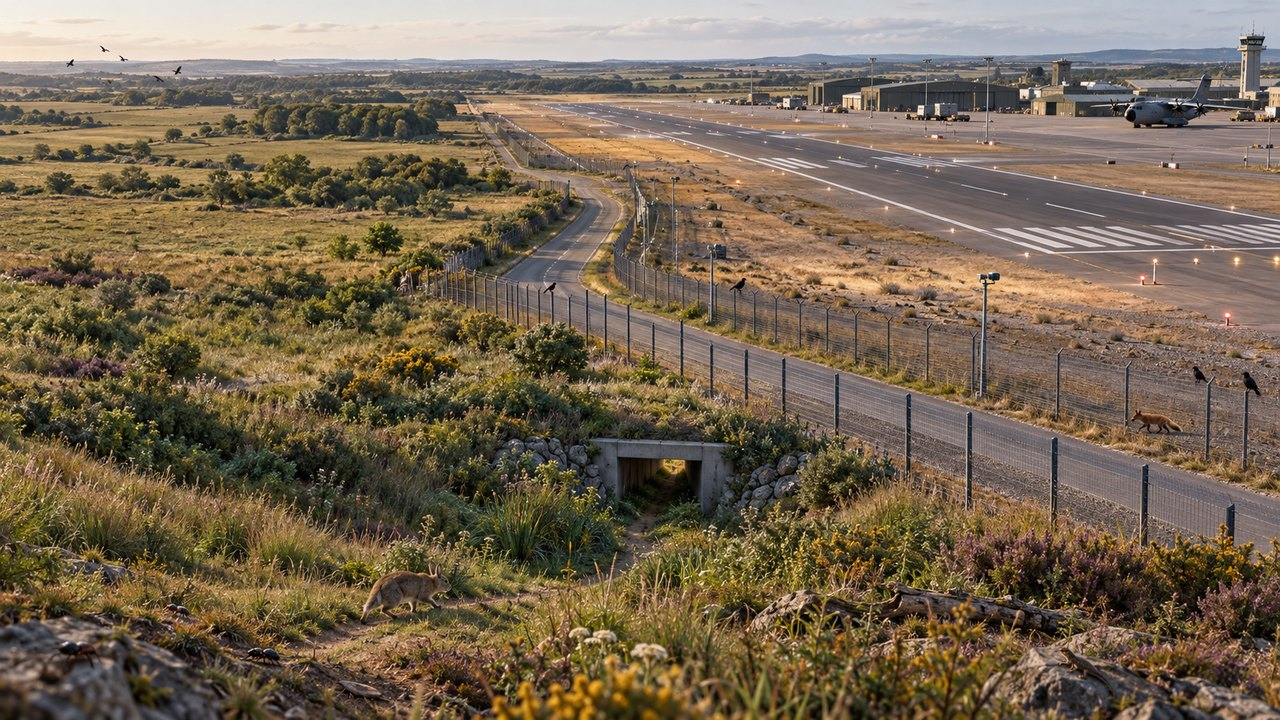
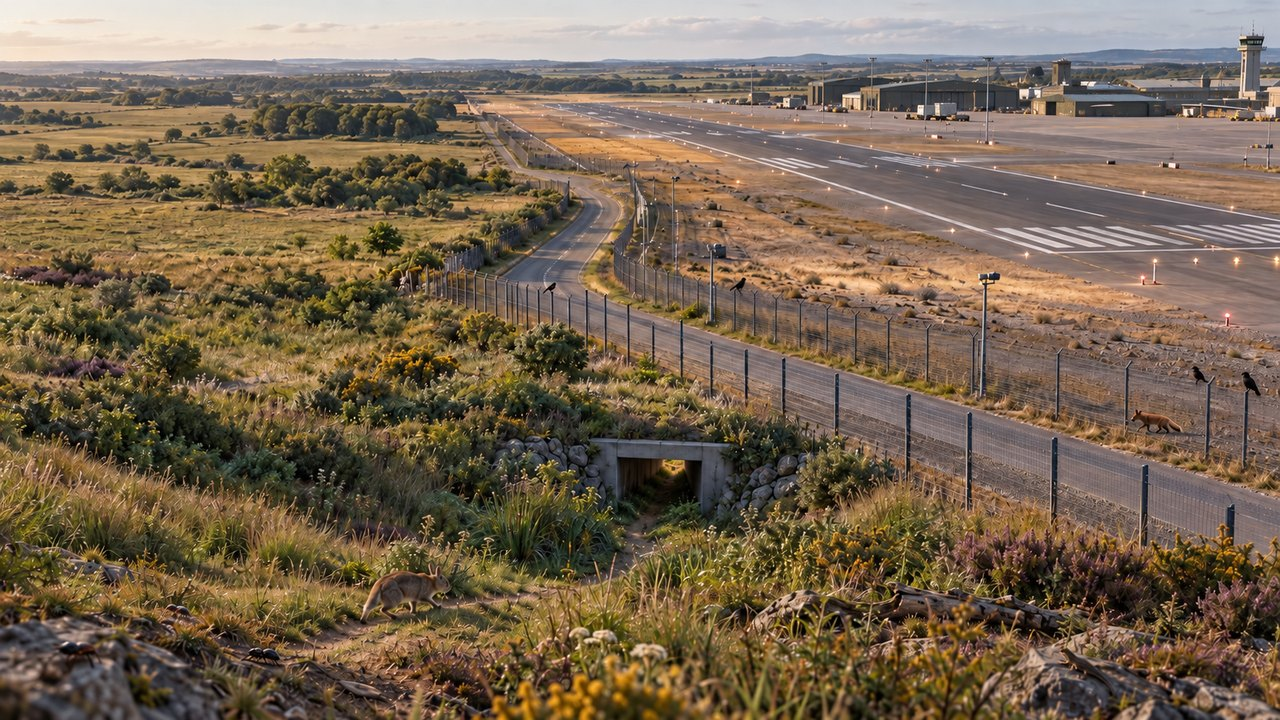
Enforce aircraft and vegetation separation

diff --git a/index.html b/index.html
@@ -5,6 +5,7 @@
   <meta name="viewport" content="width=device-width,initial-scale=1">
   <meta name="description" content="Curso sobre sostenibilidad y biodiversidad aplicadas al ciclo de vida, las operaciones y la toma de decisiones en el entorno aeronáutico.">
   <title>Fundamentos de aviación sostenible</title>
+  <!-- Regla visual: las imágenes con vegetación no contienen aeronaves; las imágenes con aeronaves no contienen vegetación. Solo A400M o Eurofighter. -->
   <style>
     :root{
       --navy:#071a33;--navy2:#0c2b52;--ink:#17243a;--muted:#52627a;--line:#dfe7ef;
@@ -86,8 +87,7 @@
               <div class="metrics"><div class="metric"><strong>8</strong><span>Módulos</span></div><div class="metric"><strong>3–5 h</strong><span>Ritmo flexible</span></div><div class="metric"><strong>10</strong><span>Decisiones</span></div></div>
             </div>
             <div class="heroMedia">
-              <img src="https://upload.wikimedia.org/wikipedia/commons/f/f3/Royal_Air_Force_Airbus_A400M_ZM400_in_flight_over_Bristol_%2845158515%29.jpg" alt="A400M Atlas de la Royal Air Force en vuelo sobre Bristol">
-              <div class="photoCaption">A400M Atlas · Cpl Paul Oldfield / UK MoD, Open Government Licence. <a href="https://commons.wikimedia.org/wiki/File:Royal_Air_Force_Airbus_A400M_ZM400_in_flight_over_Bristol_(45158515).jpg" target="_blank" rel="noopener">Ficha y licencia</a></div>
+              <img src="assets/concept-lifecycle.jpg" alt="Equipo de ingeniería revisa materiales y etapas del ciclo de vida de un Eurofighter dentro de un entorno industrial sin vegetación">
             </div>
           </div>
         </div>
@@ -127,15 +127,6 @@
             <div class="term"><dt>Integridad ecológica</dt><dd>Capacidad de un ecosistema para mantener composición, estructura, funciones y procesos a lo largo del tiempo.</dd></div>
           </dl>
         </section>
-        <section class="section">
-          <div class="sectionHead"><div><div class="kicker">Créditos fotográficos</div><h2>Aeronaves reales, procedencia verificable</h2></div><p>Todas las fotografías muestran exclusivamente A400M o Eurofighter militares y enlazan a su ficha de origen y condiciones de reutilización.</p></div>
-          <div class="sourceGrid">
-            <div class="source"><strong>A400M en vuelo · Cpl Paul Oldfield / UK MoD</strong><a href="https://commons.wikimedia.org/wiki/File:Royal_Air_Force_Airbus_A400M_ZM400_in_flight_over_Bristol_(45158515).jpg" target="_blank" rel="noopener">Wikimedia Commons · Open Government Licence</a></div>
-            <div class="source"><strong>A400M en playa · Andrew Linnett / UK MoD</strong><a href="https://commons.wikimedia.org/wiki/File:A400M_Beach_Landings_MOD_45162698_(cropped).jpg" target="_blank" rel="noopener">Wikimedia Commons · ficha y licencia</a></div>
-            <div class="source"><strong>Eurofighter en vuelo · Tech. Sgt. Emerson Nuñez / U.S. Air Force</strong><a href="https://commons.wikimedia.org/wiki/File:Three_German_Luftwaffe_Eurofighter_Typhoon_of_TaktLwG_71_in_flight_over_Germany_on_18_March_2021_(210318-F-TF218-1018).JPG" target="_blank" rel="noopener">Wikimedia Commons · dominio público en EE. UU.</a></div>
-            <div class="source"><strong>Eurofighter en preflight · Airman 1st Class Dwane R. Young / U.S. Air Force</strong><a href="https://commons.wikimedia.org/wiki/File:German_Luftwaffe_Eurofighter_Typhoon_of_the_31st_Wing_at_Nellis_AFB,_Nevada_(USA),_9_March_2020_(200309-F-NX702-019).JPG" target="_blank" rel="noopener">Wikimedia Commons · dominio público en EE. UU.</a></div>
-          </div>
-        </section>
       </section>
 
       <section id="m1" class="view">
@@ -146,7 +137,7 @@
             <p>La sostenibilidad no es una colección de acciones ambientales. Es la capacidad de mantener valor y cumplir una misión sin deteriorar las condiciones sociales, económicas y ecológicas de las que depende esa actividad.</p>
             <div class="moduleMeta"><span class="chip">Dependencias</span><span class="chip">Impactos</span><span class="chip">Doble materialidad</span></div>
           </div>
-          <div class="moduleImage"><img src="https://upload.wikimedia.org/wikipedia/commons/thumb/e/e8/Three_German_Luftwaffe_Eurofighter_Typhoon_of_TaktLwG_71_in_flight_over_Germany_on_18_March_2021_%28210318-F-TF218-1018%29.JPG/1280px-Three_German_Luftwaffe_Eurofighter_Typhoon_of_TaktLwG_71_in_flight_over_Germany_on_18_March_2021_%28210318-F-TF218-1018%29.JPG" alt="Tres Eurofighter Typhoon de la Luftwaffe en vuelo sobre Alemania"></div>
+          <div class="moduleImage"><img src="assets/concept-decision-system.jpg" alt="Equipo multidisciplinar revisa una decisión de sistemas junto a un A400M dentro de un hangar sin vegetación"></div>
         </div>
         <div class="moduleNav"><button class="btn light" data-home>← Menú del curso</button><span class="chip">01 / 08</span></div>
 
@@ -171,7 +162,7 @@
         <section class="section">
           <div class="sectionHead"><div><div class="kicker">Teoría 1.2</div><h2>De la interacción ecológica al riesgo empresarial</h2></div></div>
           <div class="theoryGrid">
-            <figure class="theoryFigure"><img src="assets/concept-dependencies.jpg" alt="Equipo técnico relaciona agua, suelo, hábitats, operaciones y decisiones de mantenimiento en una base con un A400M" loading="lazy" decoding="async"><figcaption><strong>Lectura del sistema</strong><span>La operación depende de recursos y funciones naturales y, a la vez, puede generar presiones. El análisis conecta esas relaciones con riesgos, oportunidades y decisiones concretas.</span></figcaption></figure>
+            <figure class="theoryFigure"><img src="assets/concept-dependencies.jpg" alt="Equipo técnico relaciona agua, suelo, hábitats, operaciones y decisiones de mantenimiento en una instalación militar sin aeronaves" loading="lazy" decoding="async"><figcaption><strong>Lectura del sistema</strong><span>La operación depende de recursos y funciones naturales y, a la vez, puede generar presiones. El análisis conecta esas relaciones con riesgos, oportunidades y decisiones concretas.</span></figcaption></figure>
             <article class="theoryCard accent"><h3>Dependencias</h3><p>Una dependencia existe cuando la organización necesita una contribución de la naturaleza. Puede ser física —agua con determinada calidad, estabilidad del terreno o materias primas— o reguladora —control de inundaciones, moderación térmica, regeneración del suelo—. Algunas dependencias son locales; otras están ocultas varios niveles aguas arriba en la cadena de suministro.</p><p>La dependencia no implica automáticamente una mala práctica. Señala una condición que debe entenderse porque su deterioro puede afectar coste, continuidad, calidad o disponibilidad.</p></article>
             <article class="theoryCard accent"><h3>Impactos</h3><p>Un impacto es un cambio en la naturaleza vinculado a una actividad. Puede producirse en operaciones directas o en la cadena de valor: transformación del suelo, fragmentación, extracción, vertidos, ruido, luz nocturna, introducción de especies o presión sobre recursos.</p><p>El análisis serio describe el mecanismo, la localización, la intensidad, la duración, la reversibilidad y el receptor afectado. “Tiene impacto” es demasiado impreciso para orientar una decisión.</p></article>
             <article class="theoryCard"><h3>Riesgos y oportunidades</h3><p>Los impactos y dependencias pueden traducirse en riesgos físicos, regulatorios, de transición, reputacionales u operativos. Una inundación que interrumpe un acceso es riesgo físico; un mineral sin trazabilidad que deja de ser aceptable es riesgo de cadena de suministro; una afirmación ambiental sin evidencia crea riesgo legal y reputacional.</p><p>También aparecen oportunidades: diseño reparable, contratos con mejor trazabilidad, mantenimiento que prolonga vida útil, restauración que reduce una presión local o sistemas de datos que anticipan conflictos.</p></article>
@@ -215,7 +206,7 @@
       <section id="m2" class="view">
         <div class="moduleHero">
           <div class="moduleIntro"><div class="kicker">Módulo 2 · 25–35 minutos</div><h1>Cómo funcionan los sistemas naturales</h1><p>Pasamos de “contar animales y plantas” a comprender composición, estructura, funciones, conectividad y cambio ecológico.</p><div class="moduleMeta"><span class="chip">Genes</span><span class="chip">Especies</span><span class="chip">Ecosistemas</span><span class="chip">Integridad</span></div></div>
-          <div class="moduleImage"><img src="https://upload.wikimedia.org/wikipedia/commons/thumb/e/e8/A400M_Beach_Landings_MOD_45162698_%28cropped%29.jpg/1280px-A400M_Beach_Landings_MOD_45162698_%28cropped%29.jpg" alt="A400M Atlas de la Royal Air Force durante pruebas de aterrizaje en playa"></div>
+          <div class="moduleImage"><img src="assets/concept-connectivity.jpg" alt="Paisaje fragmentado por pista, viales, vallas e iluminación, sin ninguna aeronave"></div>
         </div>
         <div class="moduleNav"><button class="btn light" data-home>← Menú del curso</button><span class="chip">02 / 08</span></div>
         <div class="learning"><section class="section"><div class="kicker">Objetivos</div><h2>Al finalizar podrás</h2><div class="objectiveList"><div class="objective"><b>01</b><span>Explicar los tres niveles de biodiversidad y por qué se necesitan mutuamente.</span></div><div class="objective"><b>02</b><span>Distinguir riqueza de especies, abundancia, composición e integridad ecológica.</span></div><div class="objective"><b>03</b><span>Analizar fragmentación, conectividad y resiliencia en un paisaje industrial.</span></div><div class="objective"><b>04</b><span>Elegir indicadores adecuados para una pregunta de gestión concreta.</span></div></div></section><section class="section"><div class="kicker">Idea de vuelo</div><h2>Una lista no describe un sistema</h2><p>Dos zonas pueden albergar veinte especies y, sin embargo, tener un valor ecológico muy distinto. Importa cuáles son, cuántos individuos mantienen, si pueden reproducirse, si el hábitat está conectado y si los procesos que sostienen la comunidad siguen funcionando.</p><div class="conceptBand"><strong>Regla del módulo</strong><p>La biodiversidad se interpreta en contexto espacial y temporal; una fotografía aislada no demuestra tendencia.</p></div></section></div>
@@ -235,7 +226,7 @@
         </div></section>
 
         <section class="section"><div class="sectionHead"><div><div class="kicker">Teoría 2.3</div><h2>Conectividad, fragmentación y efecto borde</h2></div></div><div class="theoryGrid">
-          <figure class="theoryFigure"><img src="assets/concept-connectivity.jpg" alt="Hábitat continuo fragmentado por pista, carretera, valla e iluminación, con un paso funcional alejado de la zona crítica de una base A400M" loading="lazy" decoding="async"><figcaption><strong>Qué muestra la imagen</strong><span>La infraestructura crea parches y bordes más expuestos. Un elemento que parece conectar el paisaje solo ofrece conectividad funcional si la especie objetivo puede utilizarlo; junto a la pista, la zonificación evita crear atractores de fauna.</span></figcaption></figure>
+          <figure class="theoryFigure"><img src="assets/concept-connectivity.jpg" alt="Hábitat continuo fragmentado por pista, carretera, valla e iluminación, con un paso funcional alejado de la zona crítica y sin aeronaves" loading="lazy" decoding="async"><figcaption><strong>Qué muestra la imagen</strong><span>La infraestructura crea parches y bordes más expuestos. Un elemento que parece conectar el paisaje solo ofrece conectividad funcional si la especie objetivo puede utilizarlo; junto a la pista, la zonificación evita crear atractores de fauna.</span></figcaption></figure>
           <article class="theoryCard full"><p><strong>Fragmentar</strong> no es solo reducir superficie. Es dividir un hábitat continuo en parches pequeños y aislados mediante carreteras, vallas, iluminación, edificios o cambios de uso. El aislamiento limita movimiento, intercambio genético y recolonización. Además, aumenta el <strong>efecto borde</strong>: más exposición a luz, ruido, temperatura, depredación o especies oportunistas.</p><p>La <strong>conectividad estructural</strong> describe si los elementos del paisaje parecen conectados; la <strong>conectividad funcional</strong> pregunta si una especie realmente puede usarlos. Una franja vegetal puede ser corredor para insectos y barrera para otra fauna. Por eso los corredores no se diseñan de forma genérica: se parte de especies o procesos objetivo.</p><p>En instalaciones aeronáuticas aparece una tensión legítima entre conectividad y gestión del riesgo de fauna. Atraer determinadas especies cerca de una pista puede aumentar el riesgo de impacto con aeronaves. La respuesta no es “más biodiversidad en cualquier lugar”, sino zonificar: conservar y conectar donde sea compatible, evitar atractores en zonas críticas y coordinar ecología con seguridad operacional.</p></article>
           <article class="theoryCard"><h3>Resistencia</h3><p>Capacidad de soportar una perturbación sin cambiar sustancialmente. Depende de la intensidad, duración y frecuencia del evento y de la condición previa del sistema.</p></article><article class="theoryCard"><h3>Recuperación</h3><p>Capacidad de volver a una condición funcional después de una perturbación. Un sistema puede resistir poco pero recuperarse bien; por eso ambos conceptos forman parte de la resiliencia.</p></article>
         </div></section>
@@ -260,7 +251,7 @@
       </section>
 
       <section id="m3" class="view">
-        <div class="moduleHero"><div class="moduleIntro"><div class="kicker">Módulo 3 · 25–35 minutos</div><h1>Ciclo de vida aeronáutico y naturaleza</h1><p>Un cambio de diseño puede reducir una presión y aumentar otra. El enfoque de ciclo de vida ayuda a detectar desplazamientos entre lugares, proveedores y etapas antes de decidir.</p><div class="moduleMeta"><span class="chip">LCA</span><span class="chip">Ecodiseño</span><span class="chip">Retrofit</span><span class="chip">Fin de vida</span></div></div><div class="moduleImage"><img src="https://upload.wikimedia.org/wikipedia/commons/f/f3/Royal_Air_Force_Airbus_A400M_ZM400_in_flight_over_Bristol_%2845158515%29.jpg" alt="A400M Atlas de la Royal Air Force en vuelo sobre Bristol"></div></div>
+        <div class="moduleHero"><div class="moduleIntro"><div class="kicker">Módulo 3 · 25–35 minutos</div><h1>Ciclo de vida aeronáutico y naturaleza</h1><p>Un cambio de diseño puede reducir una presión y aumentar otra. El enfoque de ciclo de vida ayuda a detectar desplazamientos entre lugares, proveedores y etapas antes de decidir.</p><div class="moduleMeta"><span class="chip">LCA</span><span class="chip">Ecodiseño</span><span class="chip">Retrofit</span><span class="chip">Fin de vida</span></div></div><div class="moduleImage"><img src="assets/concept-lifecycle.jpg" alt="Equipo de ingeniería compara materiales y etapas del ciclo de vida de un Eurofighter en un entorno industrial sin vegetación"></div></div>
         <div class="moduleNav"><button class="btn light" data-home>← Menú del curso</button><span class="chip">03 / 08</span></div>
         <div class="learning"><section class="section"><div class="kicker">Objetivos</div><h2>Al finalizar podrás</h2><div class="objectiveList"><div class="objective"><b>01</b><span>Definir función, unidad funcional y límites antes de comparar soluciones.</span></div><div class="objective"><b>02</b><span>Reconocer vías de impacto sobre biodiversidad en cada etapa del ciclo de vida.</span></div><div class="objective"><b>03</b><span>Detectar traslado de cargas entre extracción, fabricación, uso y fin de vida.</span></div><div class="objective"><b>04</b><span>Incorporar reparabilidad, modularidad y trazabilidad a una decisión de retrofit.</span></div></div></section><section class="section"><div class="kicker">Idea de vuelo</div><h2>Comparar requiere una función común</h2><p>Una pieza más ligera no es automáticamente mejor; una pieza reciclable tampoco. Primero se define qué función debe cumplir, durante cuánto tiempo, en qué condiciones y con qué requisitos de seguridad. Después se comparan alternativas equivalentes.</p><div class="conceptBand"><strong>Regla del módulo</strong><p>No optimices una etapa sacrificando otra sin conocer la magnitud y el motivo del intercambio.</p></div></section></div>
 
@@ -308,7 +299,7 @@
       </section>
 
       <section id="m4" class="view">
-        <div class="moduleHero"><div class="moduleIntro"><div class="kicker">Módulo 4 · 20–30 minutos</div><h1>Operaciones, territorio y fauna</h1><p>La gestión local debe proteger simultáneamente la seguridad operacional, el cumplimiento, la continuidad de la misión y la condición ecológica del entorno.</p><div class="moduleMeta"><span class="chip">Base industrial</span><span class="chip">Fauna</span><span class="chip">Riesgo</span><span class="chip">Controles</span></div></div><div class="moduleImage"><img src="https://upload.wikimedia.org/wikipedia/commons/thumb/0/07/German_Luftwaffe_Eurofighter_Typhoon_of_the_31st_Wing_at_Nellis_AFB%2C_Nevada_%28USA%29%2C_9_March_2020_%28200309-F-NX702-019%29.JPG/1280px-German_Luftwaffe_Eurofighter_Typhoon_of_the_31st_Wing_at_Nellis_AFB%2C_Nevada_%28USA%29%2C_9_March_2020_%28200309-F-NX702-019%29.JPG" alt="Equipo de mantenimiento de la Luftwaffe realizando comprobaciones previas en un Eurofighter Typhoon"></div></div>
+        <div class="moduleHero"><div class="moduleIntro"><div class="kicker">Módulo 4 · 20–30 minutos</div><h1>Operaciones, territorio y fauna</h1><p>La gestión local debe proteger simultáneamente la seguridad operacional, el cumplimiento, la continuidad de la misión y la condición ecológica del entorno.</p><div class="moduleMeta"><span class="chip">Base industrial</span><span class="chip">Fauna</span><span class="chip">Riesgo</span><span class="chip">Controles</span></div></div><div class="moduleImage"><img src="assets/concept-wildlife-zoning.jpg" alt="Equipo de control de fauna observa una pista y zonas de hábitat compatibles sin ninguna aeronave"></div></div>
         <div class="moduleNav"><button class="btn light" data-home>← Menú del curso</button><span class="chip">04 / 08</span></div>
         <div class="learning"><section class="section"><div class="kicker">Objetivos</div><h2>Al finalizar podrás</h2><div class="objectiveList"><div class="objective"><b>01</b><span>Leer una base como parte de un territorio y no como una parcela aislada.</span></div><div class="objective"><b>02</b><span>Aplicar el modelo fuente → vía → receptor a una presión ecológica.</span></div><div class="objective"><b>03</b><span>Conciliar gestión de fauna y seguridad aérea mediante zonificación.</span></div><div class="objective"><b>04</b><span>Diseñar controles, criterios de parada y seguimiento adaptativo.</span></div></div></section><section class="section"><div class="kicker">Idea de vuelo</div><h2>Compatibilidad, no decoración</h2><p>Una base puede contener zonas con funciones ecológicas, corredores y receptores sensibles. Pero la misma actuación que mejora hábitat lejos de la pista puede ser un atractor inadecuado en una zona crítica. La calidad está en colocar cada medida donde cumple su función sin crear un nuevo riesgo.</p><div class="conceptBand"><strong>Regla del módulo</strong><p>Gestiona la presión en su origen y diseña el espacio según receptores y funciones.</p></div></section></div>
 
@@ -328,7 +319,7 @@
           <article class="theoryCard"><h3>Movimiento y especies invasoras</h3><p>Vehículos, equipos, tierras y embalajes pueden transportar semillas, invertebrados o patógenos. La inspección, limpieza y trazabilidad de materiales de obra cierran vías de entrada.</p></article>
         </div></section>
 
-        <section class="section"><div class="sectionHead"><div><div class="kicker">Teoría 4.4</div><h2>Fauna y seguridad aérea: una gestión integrada</h2></div></div><div class="theoryGrid"><figure class="theoryFigure"><img src="assets/concept-wildlife-zoning.jpg" alt="Equipo de control de fauna observa y registra movimientos desde una zona compatible separada de la pista de una base A400M" loading="lazy" decoding="async"><figcaption><strong>Zonificación y seguimiento</strong><span>La gestión separa las zonas críticas, donde se reducen atractores, de las áreas compatibles alejadas de la pista. Los avistamientos, horarios y movimientos permiten corregir medidas sin desplazar el riesgo.</span></figcaption></figure><article class="theoryCard full"><p>El riesgo de impacto con fauna exige reducir presencia y movimientos de especies peligrosas en zonas críticas. Eso no significa eliminar toda la biodiversidad del emplazamiento. Significa identificar atractores —agua estancada, alimento, refugios, determinados tipos de vegetación—, entender patrones y actuar de forma proporcionada.</p><p>La <strong>zonificación</strong> separa objetivos: cerca de pista y trayectorias se prioriza un hábitat poco atractivo para especies de riesgo; en áreas alejadas y compatibles se pueden conservar hábitats de valor, mejorar conectividad o restaurar funciones. La gestión se apoya en registro de avistamientos e incidentes, identificación de especies, horarios, meteorología y evaluación continua de medidas.</p><p>Disuasión, modificación de hábitat y respuesta operacional deben coordinarse. Una medida aislada puede desplazar la fauna a otra zona más peligrosa. El resultado se evalúa por reducción de presencia y riesgo en áreas críticas, no por número de intervenciones realizadas.</p></article></div></section>
+        <section class="section"><div class="sectionHead"><div><div class="kicker">Teoría 4.4</div><h2>Fauna y seguridad aérea: una gestión integrada</h2></div></div><div class="theoryGrid"><figure class="theoryFigure"><img src="assets/concept-wildlife-zoning.jpg" alt="Equipo de control de fauna observa y registra movimientos desde una zona compatible separada de la pista de una instalación militar sin aeronaves" loading="lazy" decoding="async"><figcaption><strong>Zonificación y seguimiento</strong><span>La gestión separa las zonas críticas, donde se reducen atractores, de las áreas compatibles alejadas de la pista. Los avistamientos, horarios y movimientos permiten corregir medidas sin desplazar el riesgo.</span></figcaption></figure><article class="theoryCard full"><p>El riesgo de impacto con fauna exige reducir presencia y movimientos de especies peligrosas en zonas críticas. Eso no significa eliminar toda la biodiversidad del emplazamiento. Significa identificar atractores —agua estancada, alimento, refugios, determinados tipos de vegetación—, entender patrones y actuar de forma proporcionada.</p><p>La <strong>zonificación</strong> separa objetivos: cerca de pista y trayectorias se prioriza un hábitat poco atractivo para especies de riesgo; en áreas alejadas y compatibles se pueden conservar hábitats de valor, mejorar conectividad o restaurar funciones. La gestión se apoya en registro de avistamientos e incidentes, identificación de especies, horarios, meteorología y evaluación continua de medidas.</p><p>Disuasión, modificación de hábitat y respuesta operacional deben coordinarse. Una medida aislada puede desplazar la fauna a otra zona más peligrosa. El resultado se evalúa por reducción de presencia y riesgo en áreas críticas, no por número de intervenciones realizadas.</p></article></div></section>
 
         <section class="section"><div class="sectionHead"><div><div class="kicker">Teoría 4.5 · Profundización</div><h2>Del mapa a un plan operativo diario</h2></div><p>La línea base solo aporta valor cuando modifica planificación, permisos de trabajo, respuesta a incidentes y coordinación entre equipos.</p></div><div class="theoryGrid">
           <article class="theoryCard"><h3>Zonificación funcional</h3><p>La base se divide según compatibilidad y riesgo: zona operacional crítica; zonas de control de atractores; áreas de transición; corredores o hábitats compatibles; drenajes y receptores aguas abajo; y superficies temporales de obra. Cada zona necesita usos permitidos, restricciones y responsable.</p><p>La zonificación debe aparecer en los sistemas que realmente usa la operación: planos, órdenes de trabajo, briefing de contratistas y planificación de campañas. Un mapa guardado en un informe no controla una actividad.</p></article>
@@ -348,7 +339,7 @@
       </section>
 
       <section id="m5" class="view">
-        <div class="moduleHero"><div class="moduleIntro"><div class="kicker">Módulo 5 · 20–30 minutos</div><h1>Materiales, compras y circularidad</h1><p>La biodiversidad de una pieza comienza mucho antes de su llegada a planta. Trazabilidad, vida útil y capacidad de mantener el valor son decisiones de ingeniería y de compra.</p><div class="moduleMeta"><span class="chip">Trazabilidad</span><span class="chip">Debida diligencia</span><span class="chip">Circularidad</span><span class="chip">Proveedores</span></div></div><div class="moduleImage"><img src="https://upload.wikimedia.org/wikipedia/commons/thumb/e/e8/Three_German_Luftwaffe_Eurofighter_Typhoon_of_TaktLwG_71_in_flight_over_Germany_on_18_March_2021_%28210318-F-TF218-1018%29.JPG/1280px-Three_German_Luftwaffe_Eurofighter_Typhoon_of_TaktLwG_71_in_flight_over_Germany_on_18_March_2021_%28210318-F-TF218-1018%29.JPG" alt="Tres Eurofighter Typhoon de la Luftwaffe en vuelo sobre Alemania"></div></div>
+        <div class="moduleHero"><div class="moduleIntro"><div class="kicker">Módulo 5 · 20–30 minutos</div><h1>Materiales, compras y circularidad</h1><p>La biodiversidad de una pieza comienza mucho antes de su llegada a planta. Trazabilidad, vida útil y capacidad de mantener el valor son decisiones de ingeniería y de compra.</p><div class="moduleMeta"><span class="chip">Trazabilidad</span><span class="chip">Debida diligencia</span><span class="chip">Circularidad</span><span class="chip">Proveedores</span></div></div><div class="moduleImage"><img src="assets/concept-value-chain.jpg" alt="Equipo de compras e ingeniería revisa la cadena de suministro de un A400M dentro de un hangar sin vegetación"></div></div>
         <div class="moduleNav"><button class="btn light" data-home>← Menú del curso</button><span class="chip">05 / 08</span></div>
         <div class="learning"><section class="section"><div class="kicker">Objetivos</div><h2>Al finalizar podrás</h2><div class="objectiveList"><div class="objective"><b>01</b><span>Relacionar extracción y transformación con presiones sobre hábitats y agua.</span></div><div class="objective"><b>02</b><span>Diferenciar trazabilidad documental de debida diligencia efectiva.</span></div><div class="objective"><b>03</b><span>Aplicar la circularidad a la retención de valor, no solo al reciclaje.</span></div><div class="objective"><b>04</b><span>Comparar proveedores mediante criterios técnicos y ecológicos verificables.</span></div></div></section><section class="section"><div class="kicker">Idea de vuelo</div><h2>El proveedor directo no es el origen</h2><p>Un Tier 1 puede entregar un componente perfectamente conforme y, al mismo tiempo, desconocer el origen de determinados minerales o transformaciones. La trazabilidad útil sigue la cadena hasta el punto donde aparece la presión material y verifica cómo se gestiona.</p><div class="conceptBand"><strong>Regla del módulo</strong><p>Un certificado inicia una pregunta; no sustituye la evaluación de la evidencia que lo respalda.</p></div></section></div>
 
@@ -394,7 +385,7 @@
       </section>
 
       <section id="m6" class="view">
-        <div class="moduleHero"><div class="moduleIntro"><div class="kicker">Módulo 6 · 20–30 minutos</div><h1>Jerarquía de mitigación y restauración</h1><p>Evitar, reducir, restaurar y, solo para impactos residuales, considerar medidas compensatorias con condiciones estrictas. El orden protege contra soluciones vistosas pero débiles.</p><div class="moduleMeta"><span class="chip">Evitar</span><span class="chip">Reducir</span><span class="chip">Restaurar</span><span class="chip">Residual</span></div></div><div class="moduleImage"><img src="https://upload.wikimedia.org/wikipedia/commons/thumb/e/e8/A400M_Beach_Landings_MOD_45162698_%28cropped%29.jpg/1280px-A400M_Beach_Landings_MOD_45162698_%28cropped%29.jpg" alt="A400M Atlas de la Royal Air Force durante pruebas de aterrizaje en playa"></div></div>
+        <div class="moduleHero"><div class="moduleIntro"><div class="kicker">Módulo 6 · 20–30 minutos</div><h1>Jerarquía de mitigación y restauración</h1><p>Evitar, reducir, restaurar y, solo para impactos residuales, considerar medidas compensatorias con condiciones estrictas. El orden protege contra soluciones vistosas pero débiles.</p><div class="moduleMeta"><span class="chip">Evitar</span><span class="chip">Reducir</span><span class="chip">Restaurar</span><span class="chip">Residual</span></div></div><div class="moduleImage"><img src="assets/concept-mitigation-hierarchy.jpg" alt="Obra limitada y rehabilitación de una superficie alterada junto a una pista sin ninguna aeronave"></div></div>
         <div class="moduleNav"><button class="btn light" data-home>← Menú del curso</button><span class="chip">06 / 08</span></div>
         <div class="learning"><section class="section"><div class="kicker">Objetivos</div><h2>Al finalizar podrás</h2><div class="objectiveList"><div class="objective"><b>01</b><span>Aplicar la jerarquía antes de seleccionar una solución.</span></div><div class="objective"><b>02</b><span>Distinguir rehabilitación, restauración y compensación.</span></div><div class="objective"><b>03</b><span>Diseñar una restauración basada en causas, referencia y trayectoria.</span></div><div class="objective"><b>04</b><span>Detectar riesgos de adicionalidad, fuga, permanencia y desfase temporal.</span></div></div></section><section class="section"><div class="kicker">Idea de vuelo</div><h2>Restaurar no autoriza a destruir</h2><p>La restauración puede recuperar funciones, pero los ecosistemas tardan, presentan incertidumbre y no siempre son reproducibles. Evitar un impacto significativo suele conservar más valor y reducir riesgo que intentar reconstruirlo después.</p><div class="conceptBand"><strong>Regla del módulo</strong><p>La medida se elige después de demostrar por qué no puede aplicarse una respuesta situada más arriba en la jerarquía.</p></div></section></div>
 
@@ -440,7 +431,7 @@
       </section>
 
       <section id="m7" class="view">
-        <div class="moduleHero"><div class="moduleIntro"><div class="kicker">Módulo 7 · 25–35 minutos</div><h1>Medir y comunicar con rigor</h1><p>La evidencia convierte una buena intención en una decisión gestionable. La comunicación responsable explica alcance, método, resultado, incertidumbre y límites.</p><div class="moduleMeta"><span class="chip">Indicadores</span><span class="chip">ESRS E4</span><span class="chip">TNFD</span><span class="chip">Claims</span></div></div><div class="moduleImage"><img src="https://upload.wikimedia.org/wikipedia/commons/thumb/e/e8/Three_German_Luftwaffe_Eurofighter_Typhoon_of_TaktLwG_71_in_flight_over_Germany_on_18_March_2021_%28210318-F-TF218-1018%29.JPG/1280px-Three_German_Luftwaffe_Eurofighter_Typhoon_of_TaktLwG_71_in_flight_over_Germany_on_18_March_2021_%28210318-F-TF218-1018%29.JPG" alt="Tres Eurofighter Typhoon de la Luftwaffe en vuelo sobre Alemania"></div></div>
+        <div class="moduleHero"><div class="moduleIntro"><div class="kicker">Módulo 7 · 25–35 minutos</div><h1>Medir y comunicar con rigor</h1><p>La evidencia convierte una buena intención en una decisión gestionable. La comunicación responsable explica alcance, método, resultado, incertidumbre y límites.</p><div class="moduleMeta"><span class="chip">Indicadores</span><span class="chip">ESRS E4</span><span class="chip">TNFD</span><span class="chip">Claims</span></div></div><div class="moduleImage"><img src="assets/concept-evidence.jpg" alt="Equipo técnico revisa datos de mantenimiento de un A400M dentro de un hangar sin vegetación"></div></div>
         <div class="moduleNav"><button class="btn light" data-home>← Menú del curso</button><span class="chip">07 / 08</span></div>
         <div class="learning"><section class="section"><div class="kicker">Objetivos</div><h2>Al finalizar podrás</h2><div class="objectiveList"><div class="objective"><b>01</b><span>Construir una cadena objetivo → presión → estado → resultado → decisión.</span></div><div class="objective"><b>02</b><span>Diferenciar actividad, output, outcome e impacto.</span></div><div class="objective"><b>03</b><span>Situar ESRS E4, TNFD, GBF e ISO 14001 en una arquitectura común.</span></div><div class="objective"><b>04</b><span>Redactar afirmaciones específicas y resistentes al escrutinio.</span></div></div></section><section class="section"><div class="kicker">Idea de vuelo</div><h2>Medir no es acumular números</h2><p>Un cuadro con cincuenta métricas puede no responder ninguna decisión. Un buen sistema selecciona pocas variables conectadas con el mecanismo de impacto, define quién actúa cuando cambian y conserva la trazabilidad del dato.</p><div class="conceptBand"><strong>Regla del módulo</strong><p>Si el indicador no cambia una decisión, revisa para qué lo estás midiendo.</p></div></section></div>
 
@@ -495,7 +486,7 @@
       </section>
 
       <section id="m8" class="view">
-        <div class="moduleHero"><div class="moduleIntro"><div class="kicker">Módulo 8 · 35–50 minutos</div><h1>Decision Lab: misión final</h1><p>Una War Room de retrofit y preparación de base. Tres decisiones conectadas y un plan breve demuestran que puedes integrar naturaleza en una lógica operativa y verificable.</p><div class="moduleMeta"><span class="chip">War Room</span><span class="chip">A400M</span><span class="chip">Proveedores</span><span class="chip">Evidencia</span></div></div><div class="moduleImage"><img src="https://upload.wikimedia.org/wikipedia/commons/f/f3/Royal_Air_Force_Airbus_A400M_ZM400_in_flight_over_Bristol_%2845158515%29.jpg" alt="A400M Atlas de la Royal Air Force en vuelo sobre Bristol"></div></div>
+        <div class="moduleHero"><div class="moduleIntro"><div class="kicker">Módulo 8 · 35–50 minutos</div><h1>Decision Lab: misión final</h1><p>Una War Room de retrofit y preparación de base. Tres decisiones conectadas y un plan breve demuestran que puedes integrar naturaleza en una lógica operativa y verificable.</p><div class="moduleMeta"><span class="chip">War Room</span><span class="chip">A400M</span><span class="chip">Proveedores</span><span class="chip">Evidencia</span></div></div><div class="moduleImage"><img src="assets/concept-decision-system.jpg" alt="Equipo multidisciplinar compara evidencias junto a un A400M dentro de un hangar sin vegetación"></div></div>
         <div class="moduleNav"><button class="btn light" data-home>← Menú del curso</button><span class="chip">08 / 08</span></div>
         <div class="learning"><section class="section"><div class="kicker">Misión</div><h2>Retrofit ORION</h2><p>El escenario es completamente ficticio. Un paquete de actualización para una flota A400M requiere nueva electrónica, una zona temporal de integración y una campaña de pruebas. El calendario es exigente y la dirección quiere comunicar resultados de sostenibilidad.</p><div class="objectiveList"><div class="objective"><b>A</b><span>Seleccionar una localización compatible con operación y territorio.</span></div><div class="objective"><b>B</b><span>Elegir una estrategia de proveedor con trazabilidad y circularidad.</span></div><div class="objective"><b>C</b><span>Definir indicadores y una afirmación proporcionada.</span></div></div></section><section class="section"><div class="kicker">Criterio de éxito</div><h2>Ninguna decisión vive sola</h2><p>La alternativa espacial afecta a drenaje y fauna; la arquitectura del equipo afecta a materiales y soporte; la comunicación depende de lo que pueda medirse. Una solución integrada muestra relaciones y conserva margen para corregir.</p><div class="conceptBand"><strong>Secuencia final</strong><p>Localizar → evaluar → priorizar → aplicar jerarquía → controlar → medir → comunicar → revisar.</p></div></section></div>
 
